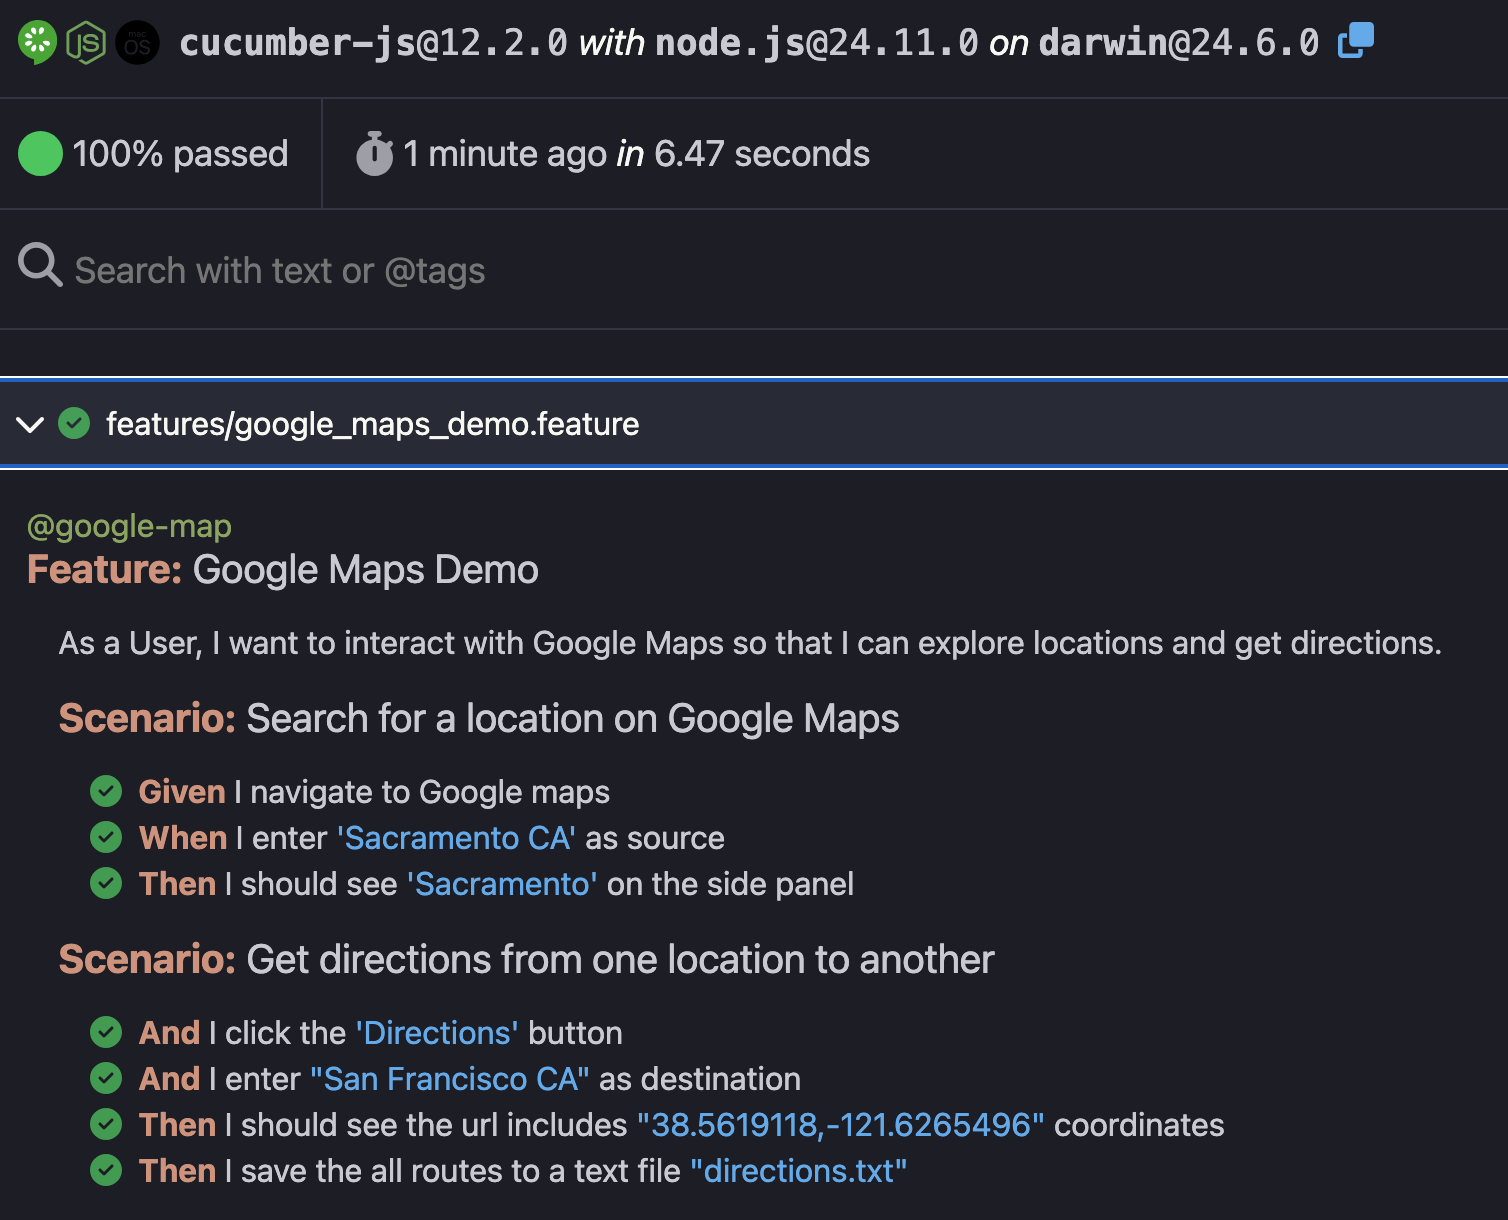
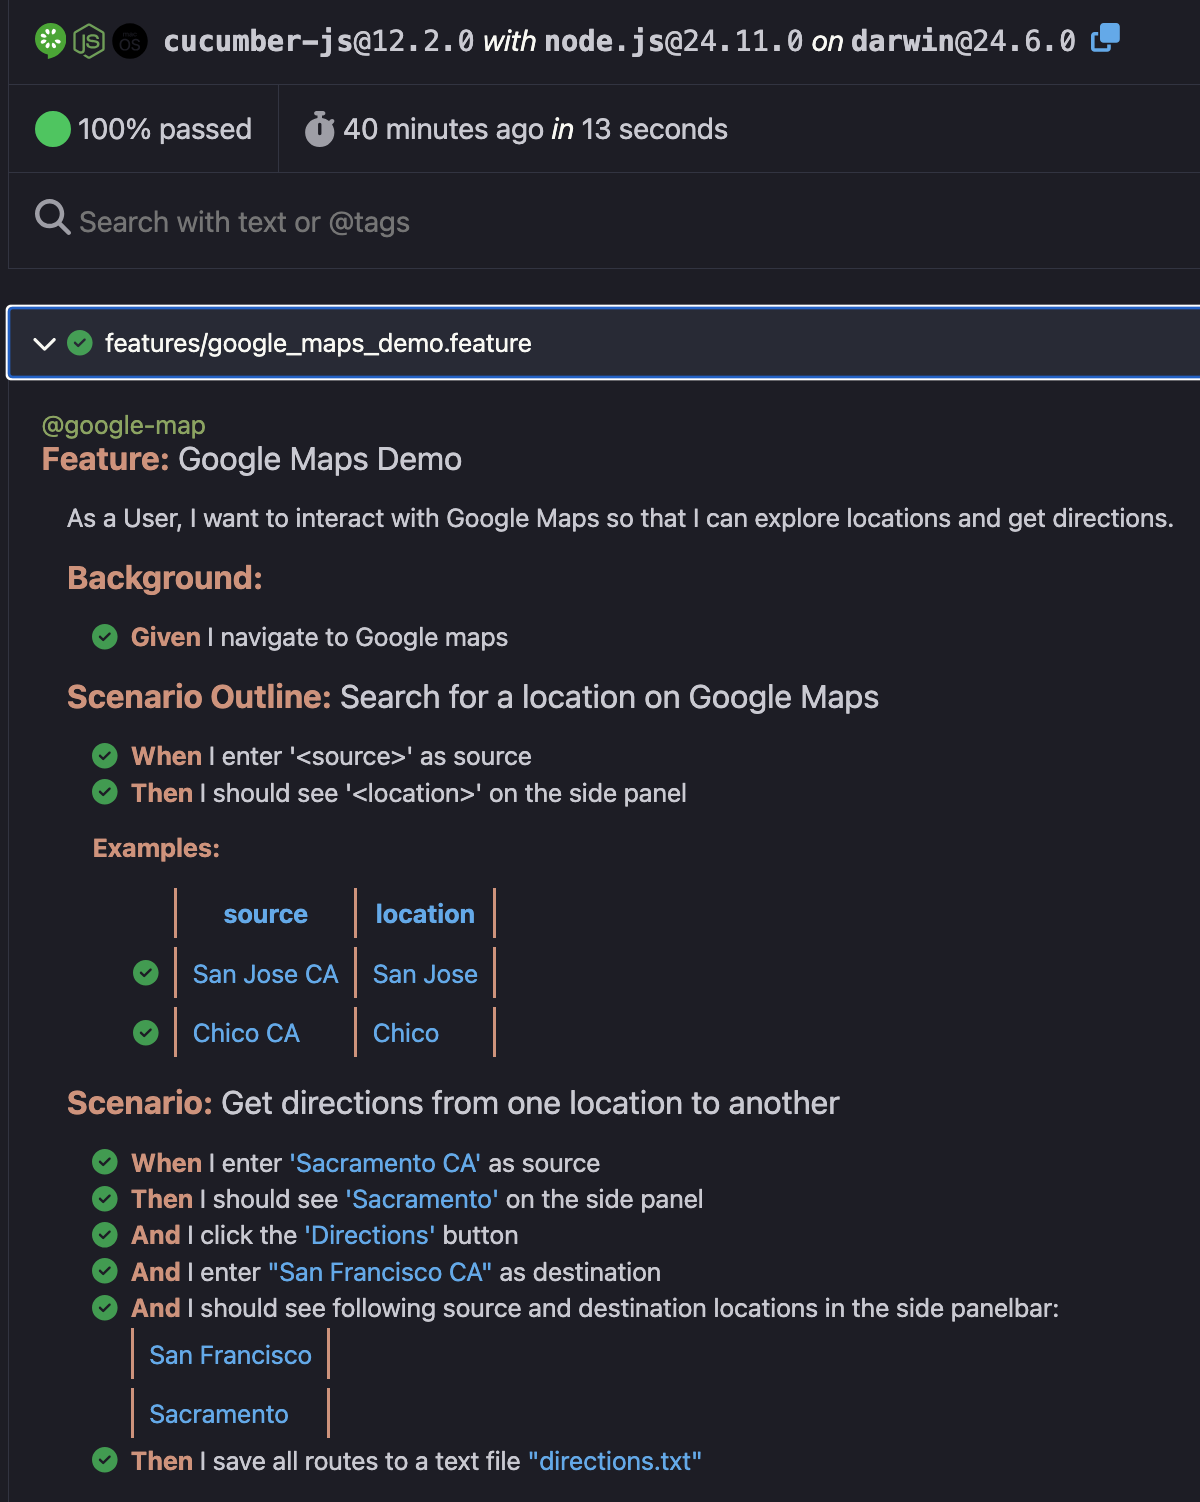
update readme, add data-table steps in the featurl file and uploaded new image and update log message in hooks

diff --git a/features/step_definitions/generic_steps.ts b/features/step_definitions/generic_steps.ts
@@ -65,6 +65,21 @@ Then("I should see the url includes {string} coordinates", async (coords: string
     assert.strictEqual(coordinates, coords, `The url ${url} contains the coordinates ${coords}`);
 });
 
+Then("I should see following source and destination locations in the side panelbar:", async (dataTable) => {
+    const locations = dataTable.raw();
+    log.info(`Verifying locations in side panel: ${locations}`);
+    const searchBox = page.locator('input[class="tactile-searchbox-input"]').filter({visible: true});
+    log.info(`Search box value: ${searchBox}`);
+    const inputTxt: string[] = await searchBox.evaluateAll((elements: any) => {
+    return elements.map((ele: any) => ele.getAttribute('aria-label') || '');
+    });
+    log.info(`Input text values: ${inputTxt}`);
+    inputTxt.forEach((txt: string, index: number) => {
+        const exist: boolean = txt.includes(locations[index]);
+        assert.ok(exist, `Location ${locations[index]} is present in the side panel`);
+    });
+});
+
 // I save all routes to a text file "directions.txt"
 Then("I save all routes to a text file {string}", async (fileName: string) => {
     log.info(`Saving routes to file: ${fileName}`);

diff --git a/features/support/hooks.ts b/features/support/hooks.ts
@@ -51,7 +51,8 @@ Before(async function (scenario) {
 });
 
 After(async function (scenario) {
-    log.info(`Completed scenario: ${scenario.pickle.name}`);
+    let tags = scenario.pickle.tags.map(tag => tag.name).join(", ");
+    log.info(`Scenario: '${scenario.pickle.name}' with tags: ${tags} ${scenario.result?.status} and had ${scenario.pickle.steps.length} steps.`);
 });
 
 AfterAll(async function () {

diff --git a/README.md b/README.md
@@ -25,6 +25,9 @@ Press `command` + `,` to open Settings and search for `cucumber`. Edit `settings
 3. After test execution completes, open `cucumber-report.html` from the root directory to see the results
 4. Verify test output in `features/support/output/directions.txt`
 
+### Dry-Run Test
+Run `npx cucumber-js --dry-run` to do a quick dry-run test to validate all steps in the feature files have their corresponding step defs defined.
+
 ## Testing
 All routes data will be saved in `features/support/output/directions.txt` file.
 Want to run test headless? Add `HEADLESS=true` before the above test command.
